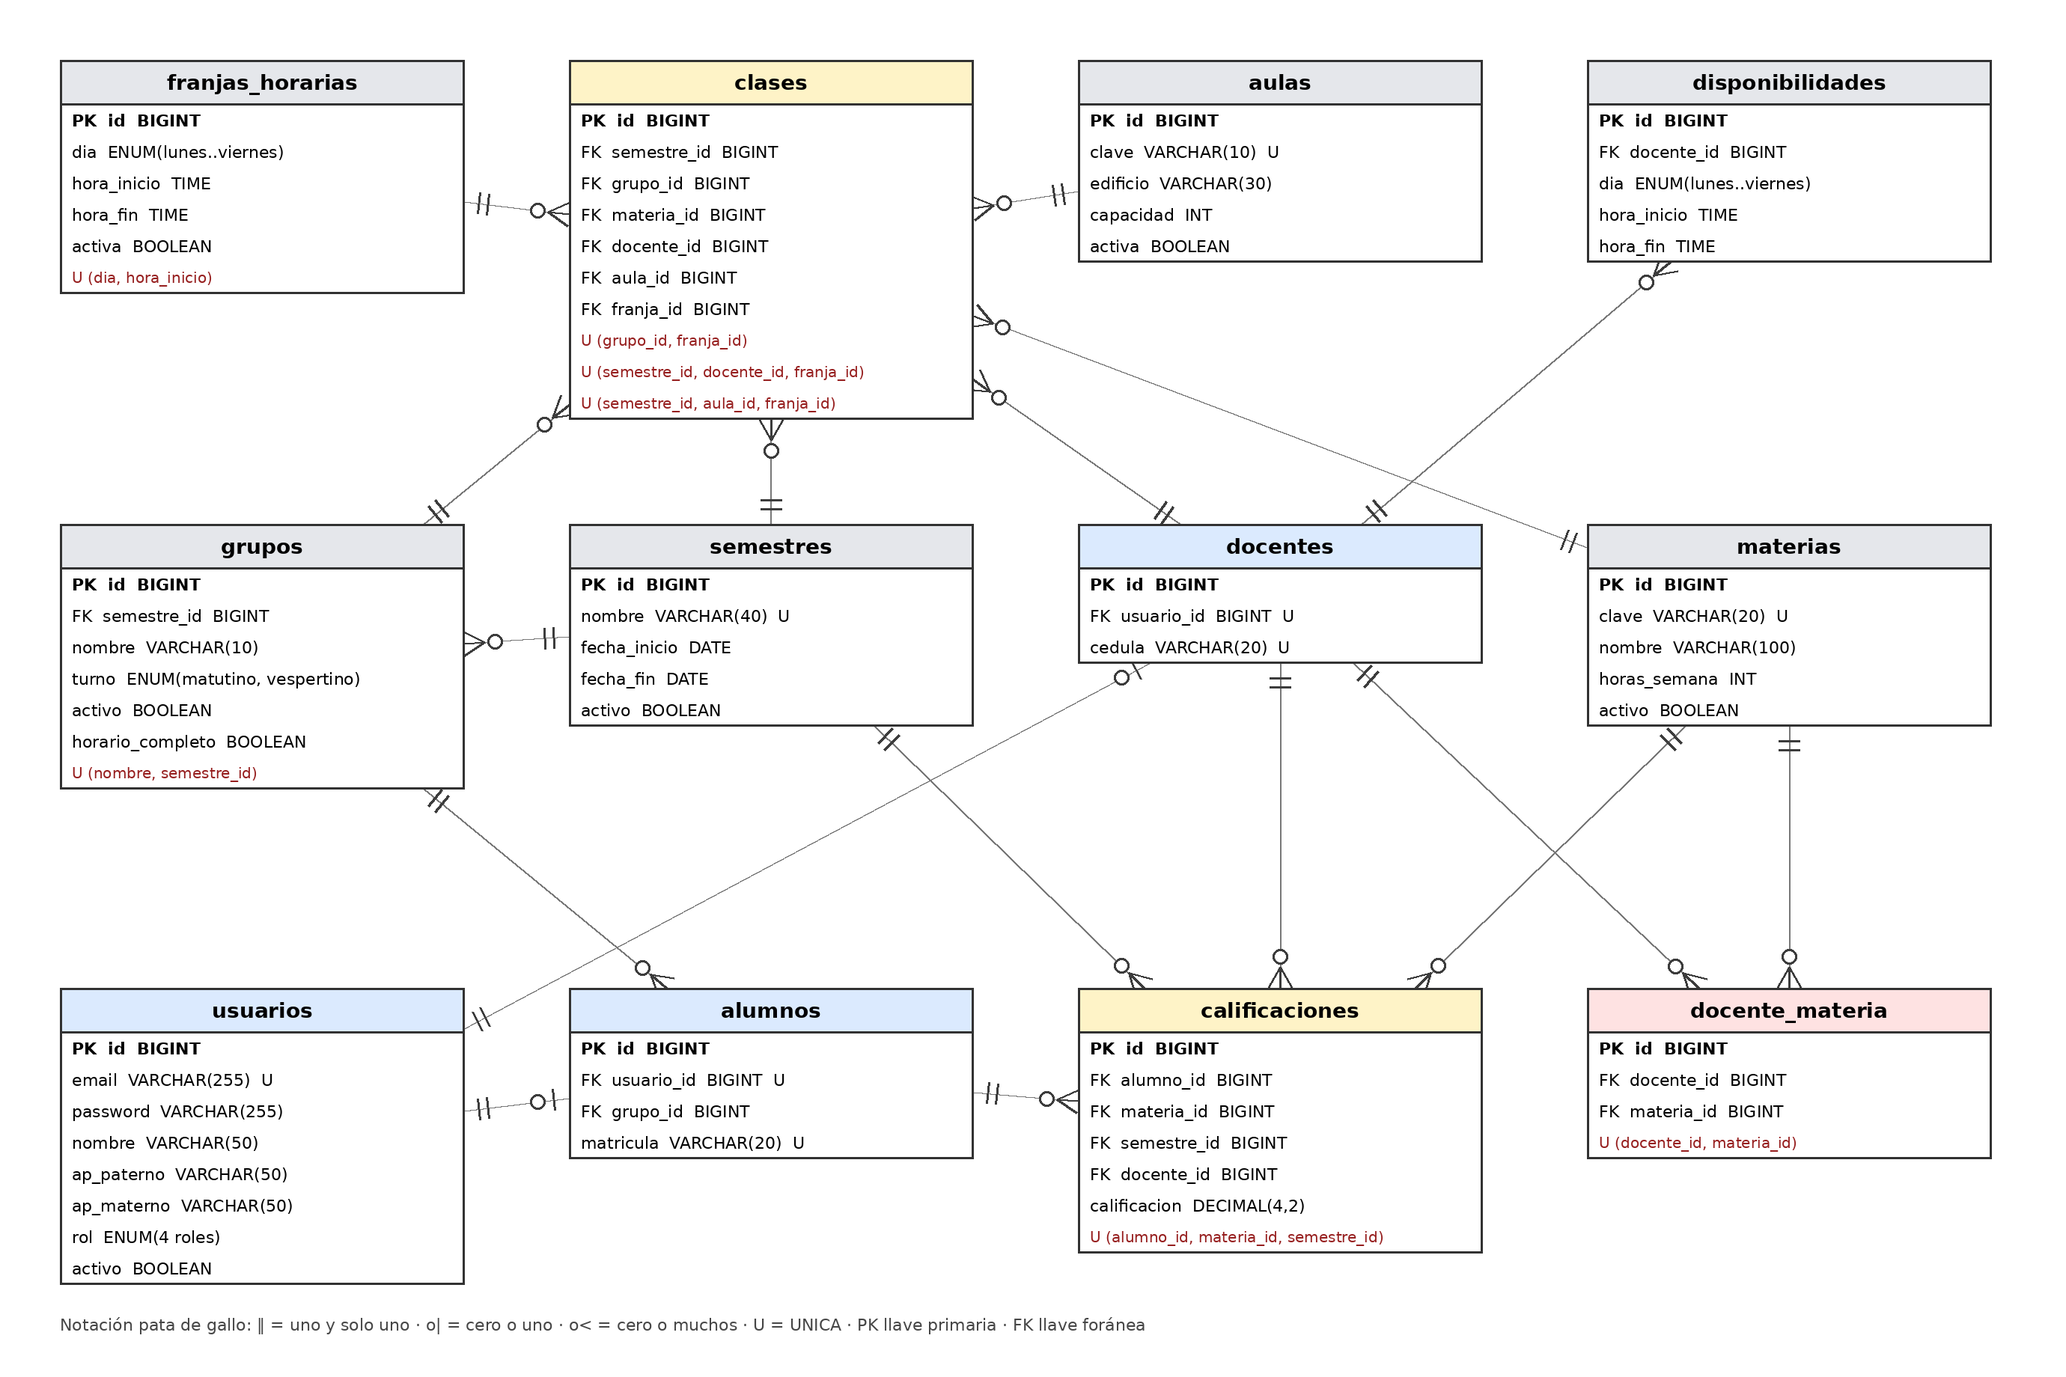
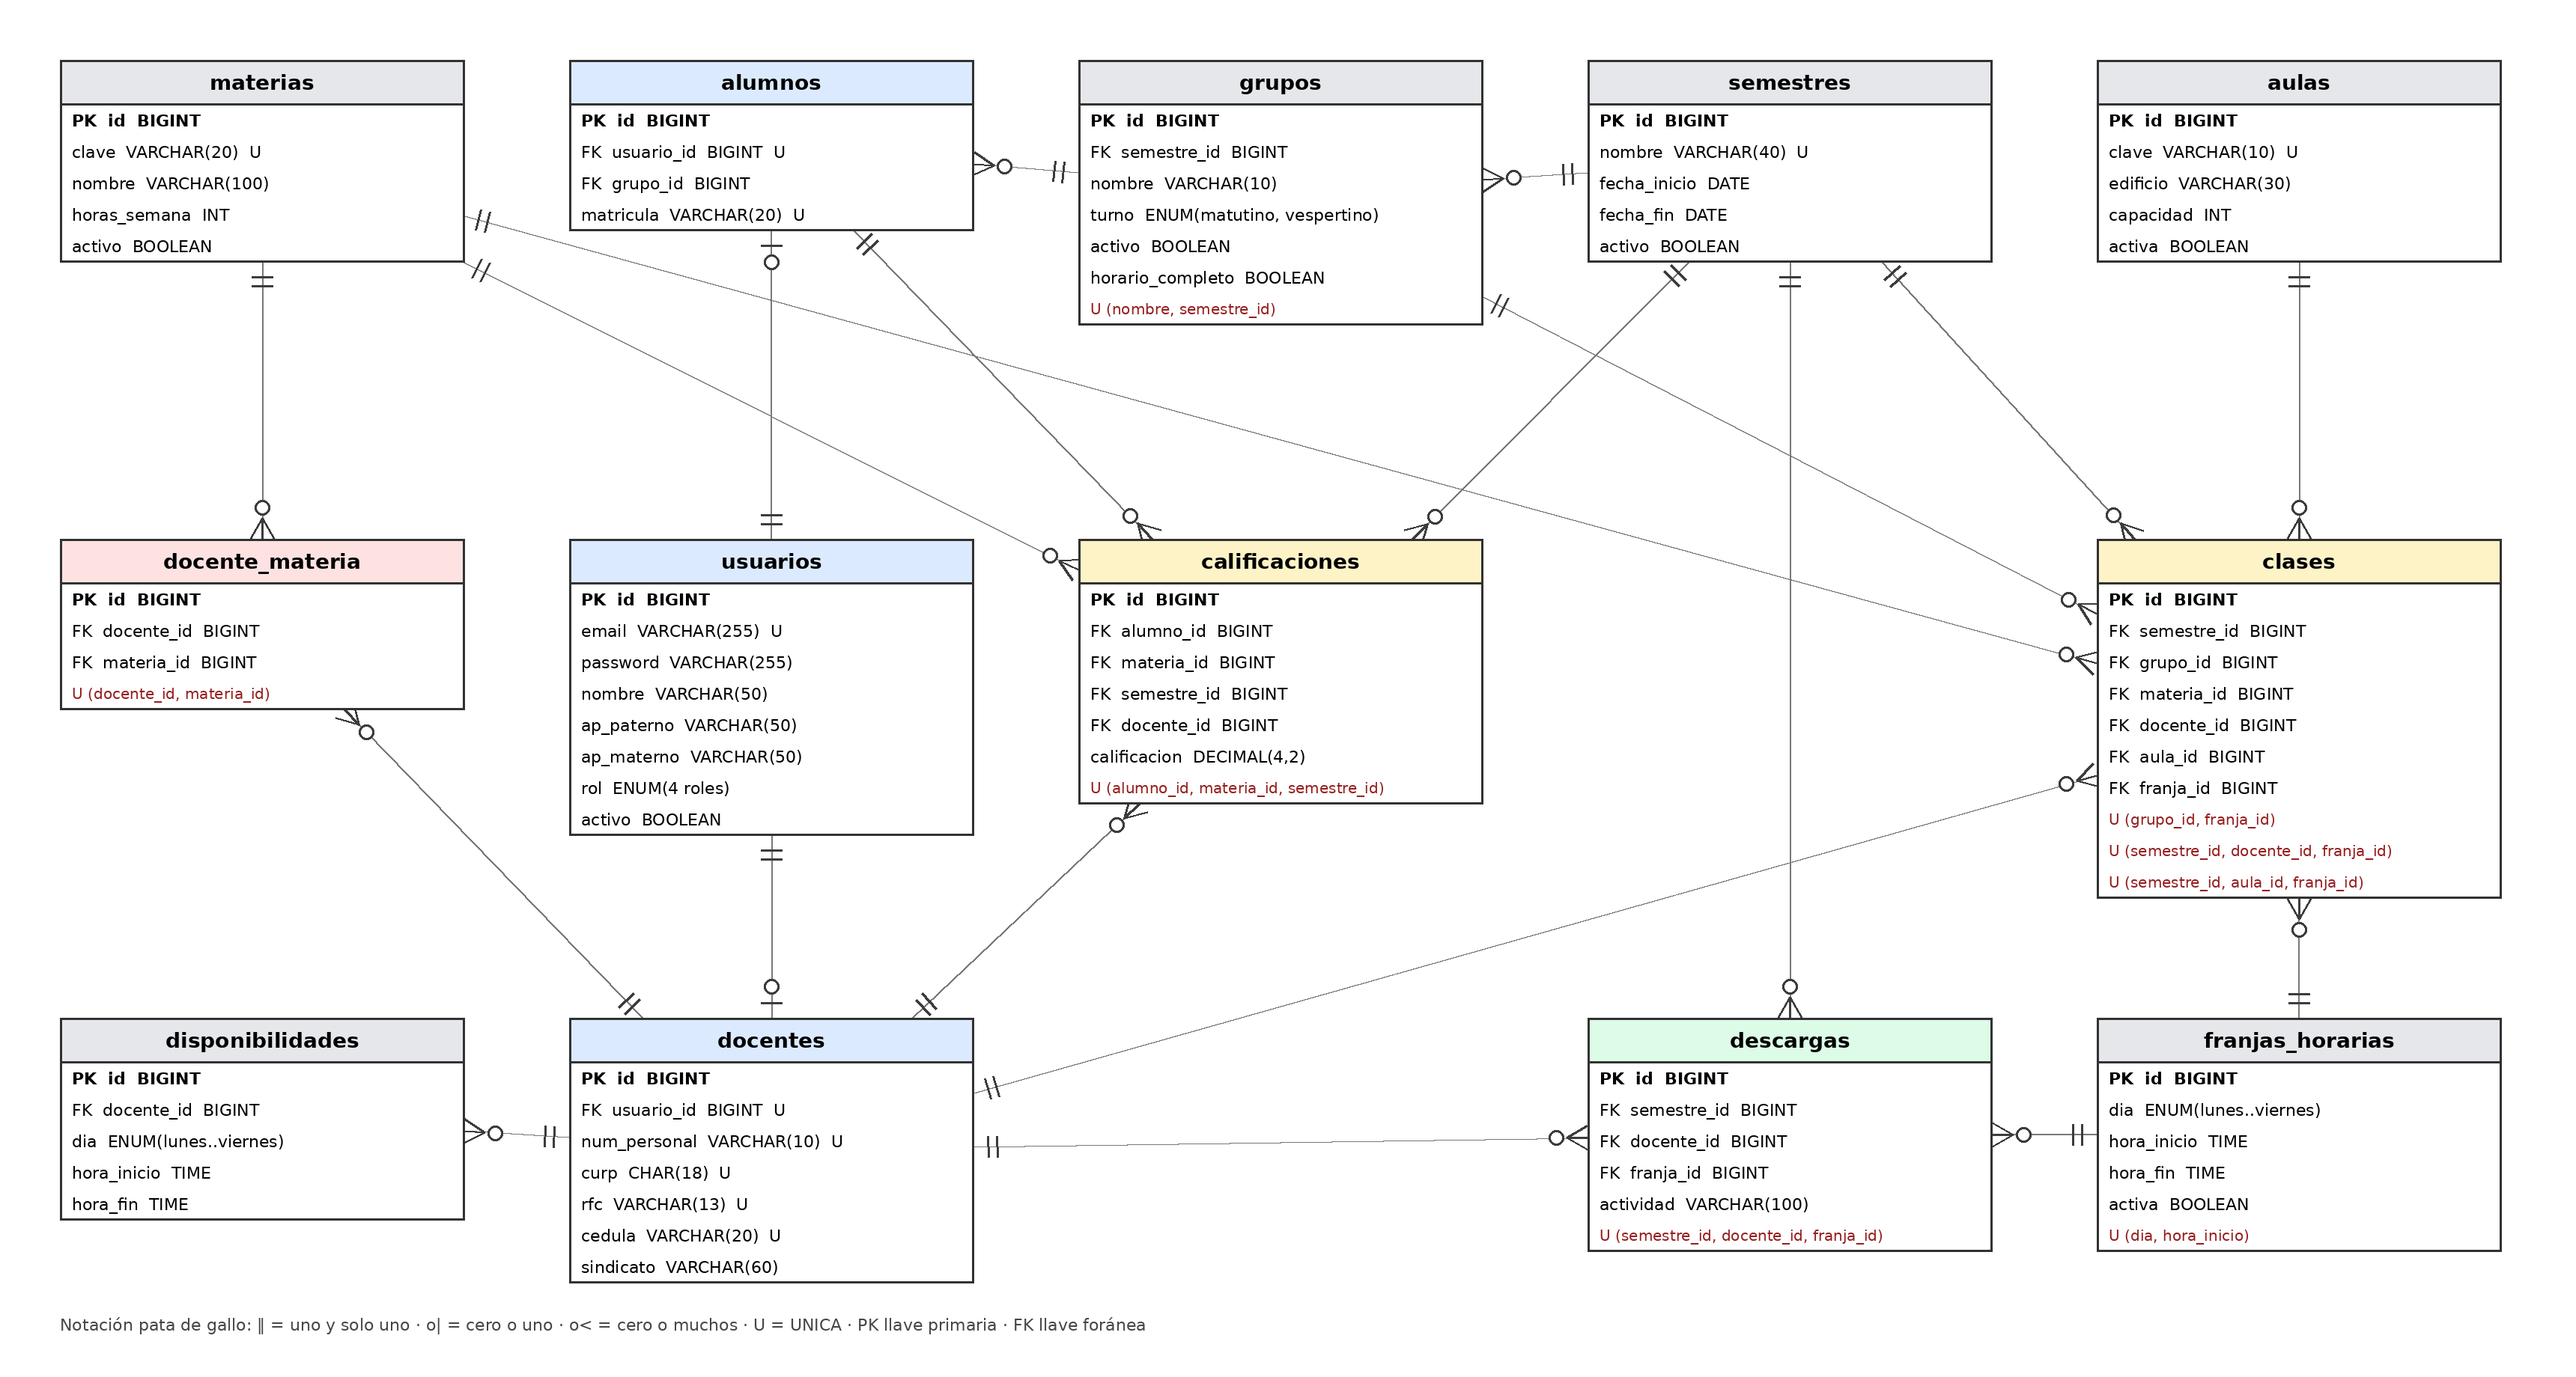
Modelo: datos del docente y tabla descargas (formato oficial de horario)

diff --git a/docs/validacion-modelo.md b/docs/validacion-modelo.md
@@ -11,6 +11,8 @@ Método: por cada historia se escribe la pregunta que el sistema le hará a la b
 
 Durante la validación se agregó una columna: `grupos.horario_completo` (HU-11).
 
+Cambio del 21/10: el Product Owner compartió el formato oficial de horario docente. Para generarlo se agregaron a `docentes` los campos `num_personal`, `curp`, `rfc` y `sindicato`, y la tabla `descargas` (horas del docente sin grupo). El total de horas del formato se calcula: clases + descargas del docente en el semestre.
+
 ## Tabla de validación
 
 | Historia | Pregunta a la base de datos | Tablas y columnas que la responden | ¿Se puede? |
@@ -27,7 +29,7 @@ Durante la validación se agregó una columna: `grupos.horario_completo` (HU-11)
 | HU-10 Bloquear empalmes | Al guardar una clase, ¿ya hay otra con el mismo grupo, docente o aula en esa franja y semestre? | `clases`: UNICA (`grupo_id`, `franja_id`), UNICA (`semestre_id`, `docente_id`, `franja_id`), UNICA (`semestre_id`, `aula_id`, `franja_id`). La regla que falla indica la causa del empalme | Sí |
 | HU-11 Horario completo | ¿Este grupo ya tiene su horario marcado como completo? | `grupos.horario_completo` (agregada en esta validación) | Sí |
 | HU-12 Horario del alumno | ¿Qué clases tiene el grupo de este alumno, a qué hora y en qué aula? | `usuarios` → `alumnos.grupo_id` → `clases` → `materias`, `aulas`, `franjas_horarias`, `docentes` | Sí |
-| HU-13 Carga del docente | ¿Qué clases da este docente, a qué hora y en qué aula? | `usuarios` → `docentes` → `clases` (`docente_id`) → `grupos`, `materias`, `aulas`, `franjas_horarias` | Sí |
+| HU-13 Carga del docente | ¿Qué clases y descargas tiene este docente, a qué hora, y cuántas horas suma? | `usuarios` → `docentes` (datos del encabezado) → `clases` y `descargas` (`docente_id`) → `grupos`, `materias`, `aulas`, `franjas_horarias`; total = COUNT de ambas | Sí* |
 | HU-14 Capturar calificaciones | ¿Qué grupos y materias le tocan a este docente? Guardar la calificación de cada alumno | `clases` donde `docente_id` es el suyo; `calificaciones` (`alumno_id`, `materia_id`, `semestre_id`, `docente_id`, `calificacion DECIMAL(4,2)`) | Sí* |
 | HU-15 Consultar calificaciones | ¿Qué calificaciones tiene este alumno por materia? | `calificaciones` por `alumno_id`, con `materias` | Sí |
 | HU-16 Boleta | ¿Cuál es la boleta de este alumno en un semestre, con su promedio? | `calificaciones` por `alumno_id` y `semestre_id`; el promedio se calcula (`AVG`). No se guarda tabla de boleta | Sí |
@@ -40,6 +42,7 @@ El modelo guarda los datos para estas reglas, pero la base de datos no puede imp
 2. **Docente apto para la clase (HU-09):** antes de guardar una clase, comprobar en `docente_materia` que el docente imparte esa materia, y en `disponibilidades` que está libre en esa franja.
 3. **Calificación entre 0 y 10 (HU-14):** `DECIMAL(4,2)` acepta hasta 99.99, así que el formulario debe validar el rango.
 4. **El docente solo califica sus grupos (HU-14):** solo mostrar y aceptar alumnos de grupos donde el docente tiene una clase de esa materia.
+5. **Una descarga no choca con una clase (HU-13):** antes de guardar una descarga o una clase, comprobar que el docente no tenga la otra en esa misma franja y semestre (están en tablas distintas, así que la regla UNICA no lo cubre).
 
 ## Criterios de aceptación de HT-02
 
